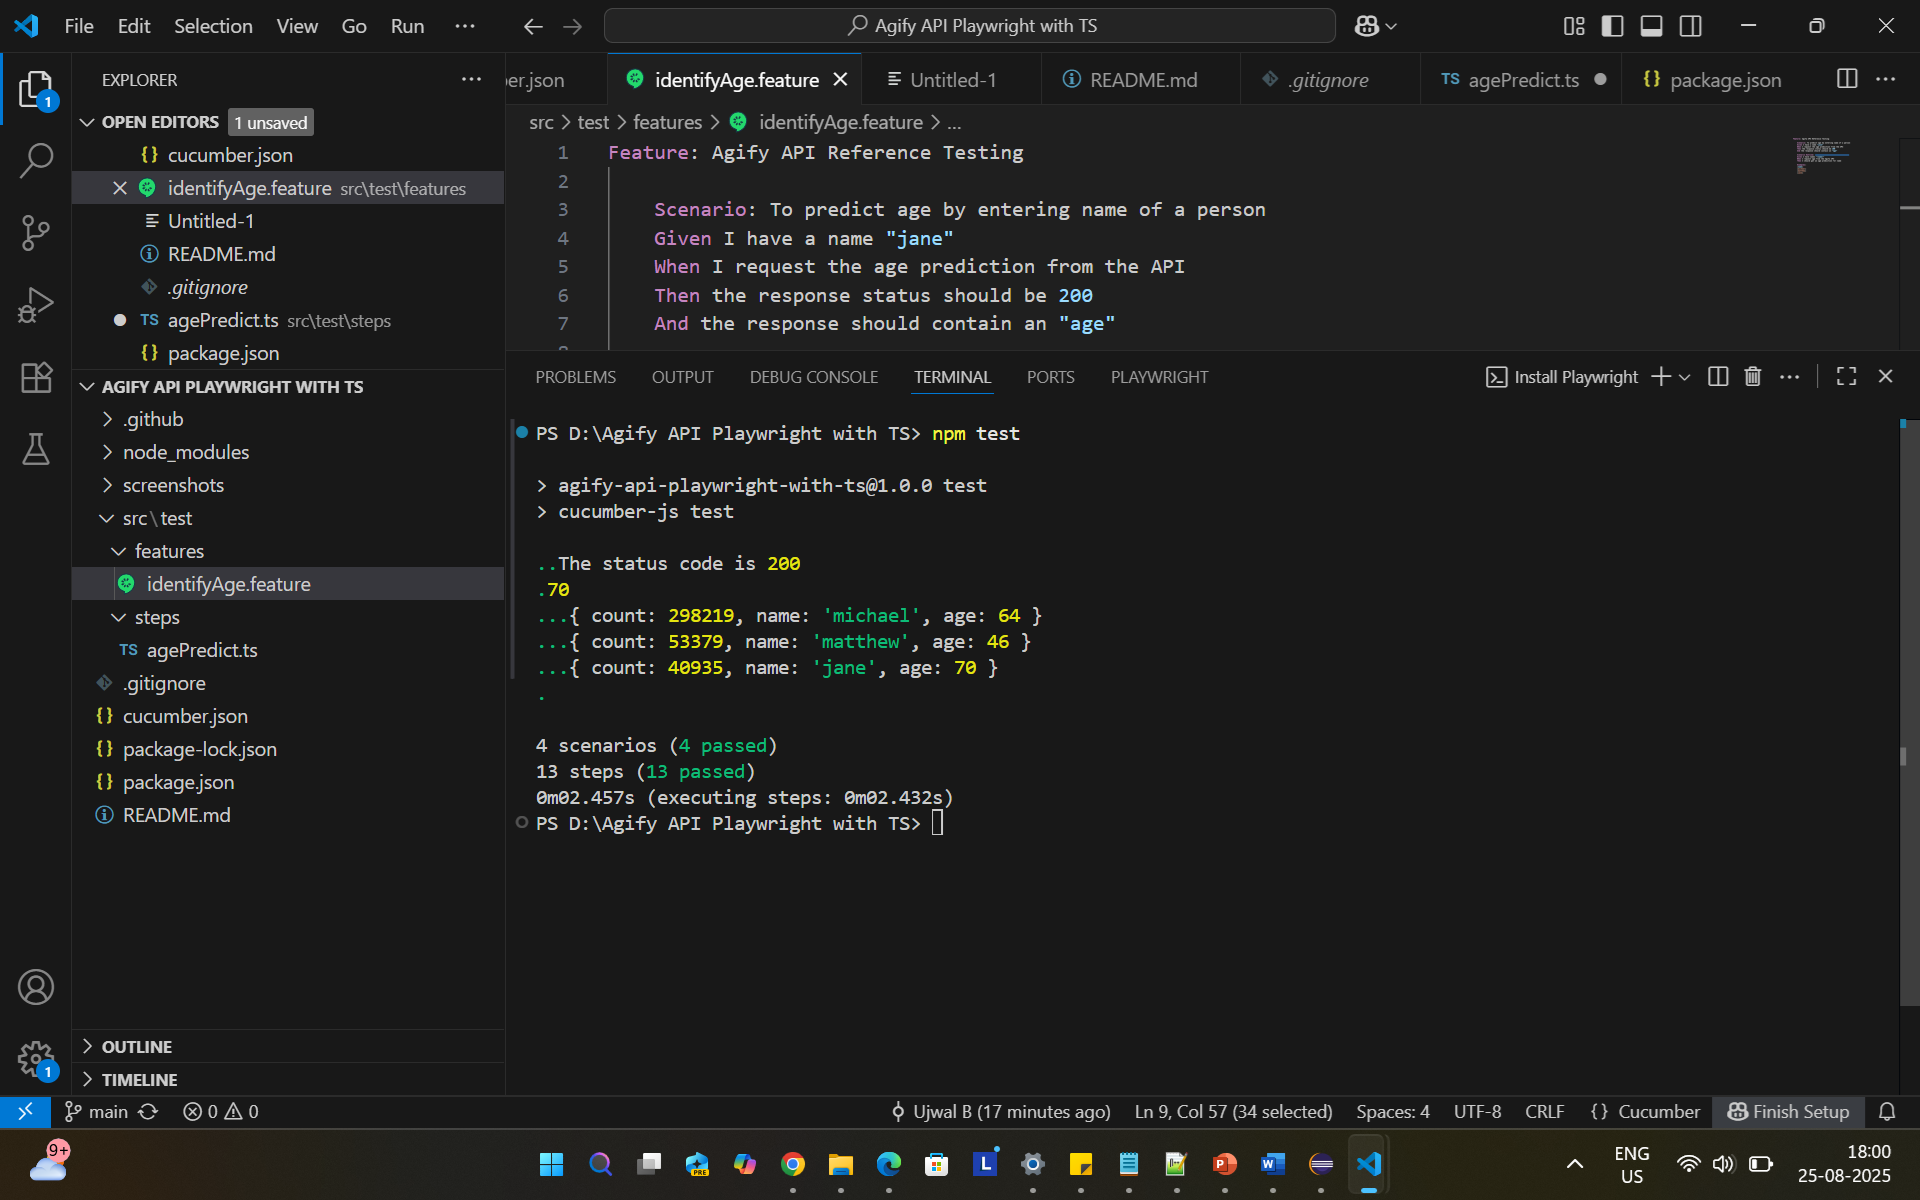
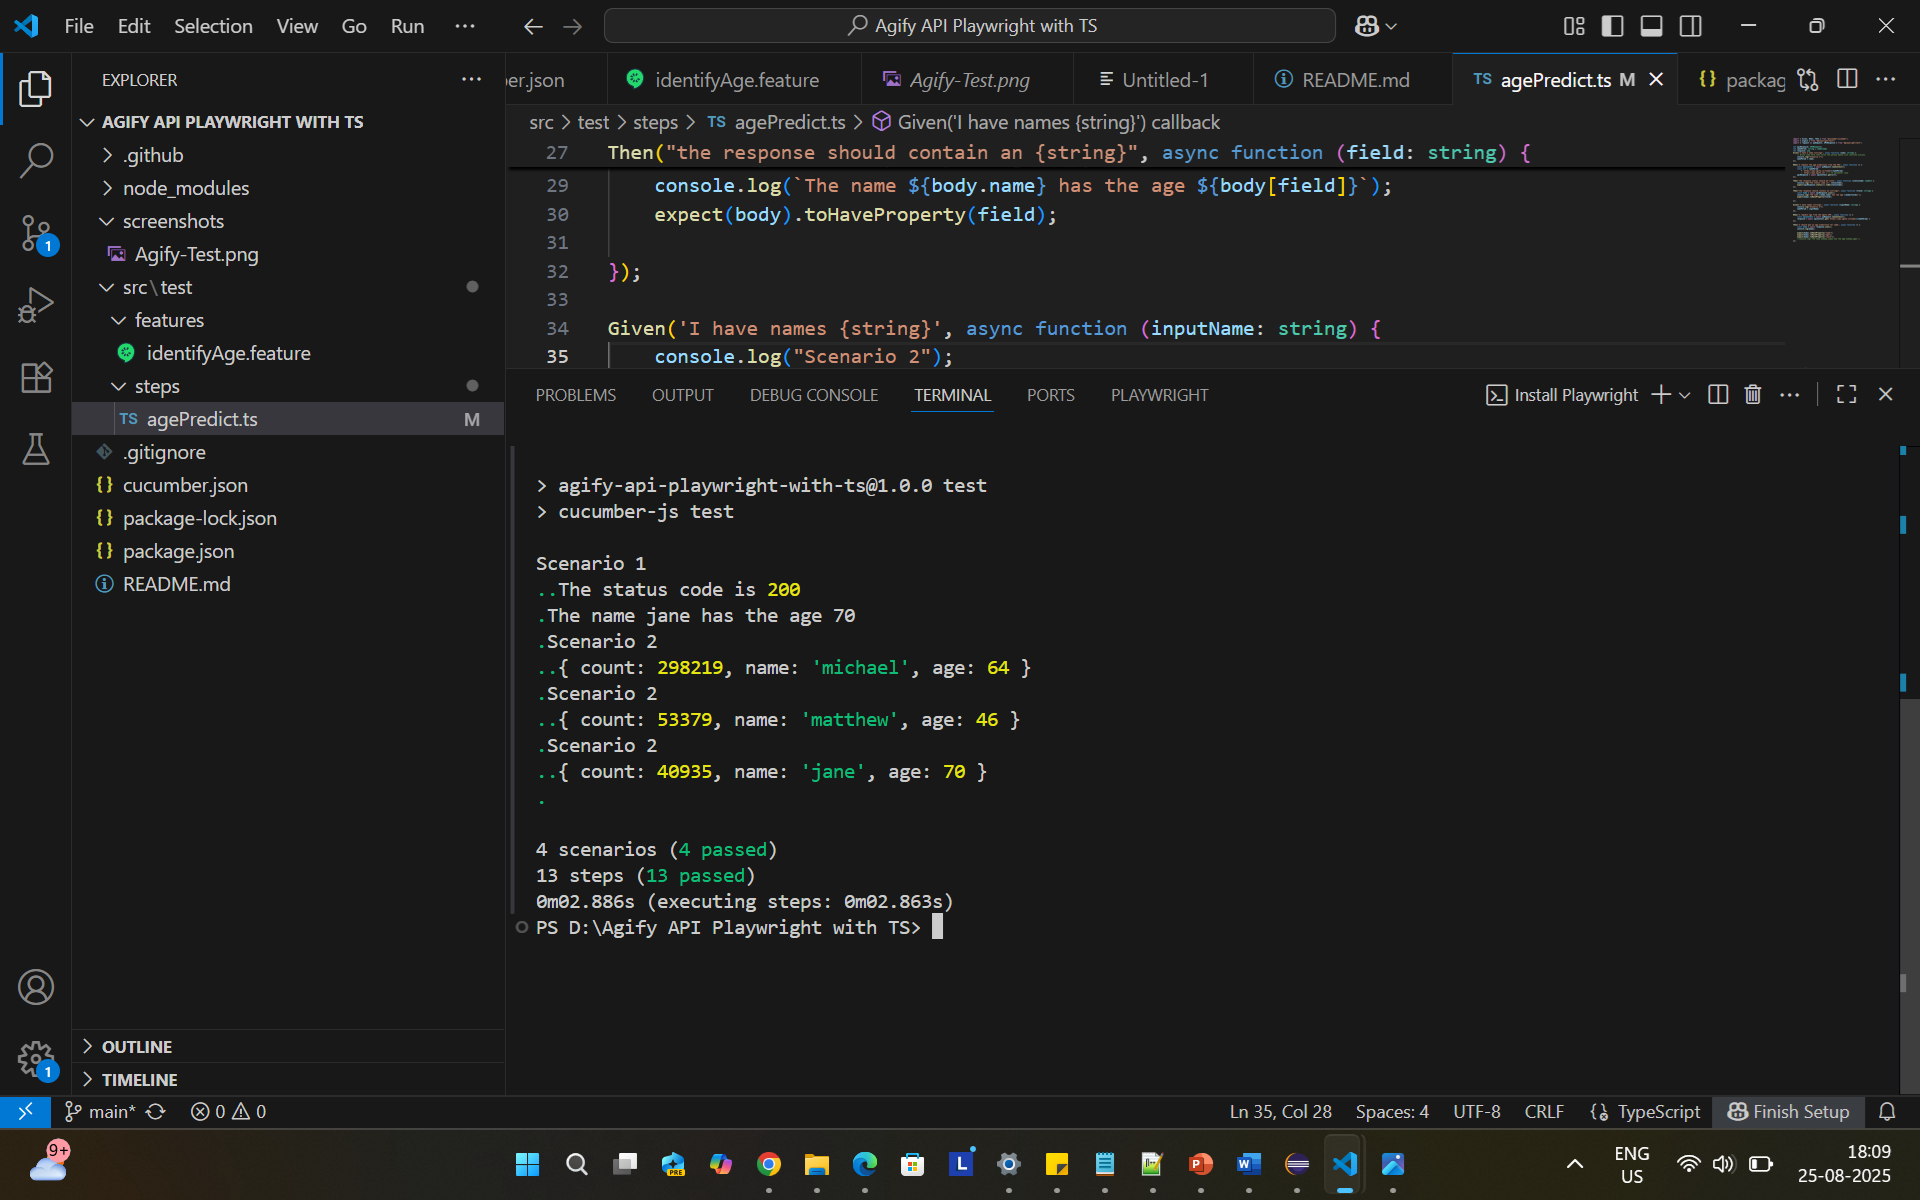
Updated the README.md

diff --git a/src/test/steps/agePredict.ts b/src/test/steps/agePredict.ts
@@ -4,48 +4,50 @@ import { request as pwRequest, APIResponse } from "@playwright/test";
 
 let apiResponse: APIResponse;
 let nameParam: string | undefined;
-let response : any
+let response: any
 Given('I have a name {string}', async function (name: string) {
-           // Write code here that turns the phrase above into concrete actions
-           nameParam = name;
-         });
+    // Write code here that turns the phrase above into concrete actions
+    console.log("Scenario 1");
+    nameParam = name;
+});
 
 When('I request the age prediction from the API', async function () {
-        const apiContext = await pwRequest.newContext();
-           const url = nameParam
-            ? `https://api.agify.io/?name=${nameParam}`
-            : `https://api.agify.io/`; // no parameter case
-         apiResponse = await apiContext.get(url);
-         });        
-         
- Then('the response status should be {int}', async function (statusCode: number) {
-        console.log("The status code is", statusCode);
-        expect(apiResponse.status()).toBe(statusCode);
-         });         
+    const apiContext = await pwRequest.newContext();
+    const url = nameParam
+        ? `https://api.agify.io/?name=${nameParam}`
+        : `https://api.agify.io/`; // no parameter case
+    apiResponse = await apiContext.get(url);
+});
 
- Then("the response should contain an {string}", async function (field: string) {
-        const body = await apiResponse.json();
-        console.log(body[field]);
-        expect(body).toHaveProperty(field);
-});         
+Then('the response status should be {int}', async function (statusCode: number) {
+    console.log("The status code is", statusCode);
+    expect(apiResponse.status()).toBe(statusCode);
+});
+
+Then("the response should contain an {string}", async function (field: string) {
+    const body = await apiResponse.json();
+    console.log(`The name ${body.name} has the age ${body[field]}`);
+    expect(body).toHaveProperty(field);
+
+});
 
 Given('I have names {string}', async function (inputName: string) {
-          nameParam = inputName;
-         });
+    console.log("Scenario 2");
+    nameParam = inputName;
+});
 
 When('I request age from the Agify API', async function () {
-           const apiContext = await pwRequest.newContext();
-           response = await apiContext.get(`https://api.agify.io?name=${nameParam}`)
-         });
-         
- Then('I should get an age prediction for name', async function () {
-           const body = await response.json();
-           console.log(body);
-           
-           expect(body).toHaveProperty("name");
-            expect(body).toHaveProperty("age");
-            expect(body).toHaveProperty("count");
-           //console.log(`The name ${body.name} has the age ${body.age}`);
-        });
+    const apiContext = await pwRequest.newContext();
+    response = await apiContext.get(`https://api.agify.io?name=${nameParam}`)
+});
 
-         
+Then('I should get an age prediction for name', async function () {
+    const body = await response.json();
+    console.log(body);
+
+    expect(body).toHaveProperty("name");
+    expect(body).toHaveProperty("age");
+    expect(body).toHaveProperty("count");
+    //console.log(`The name ${body.name} has the age ${body.age}`);
+});
+
